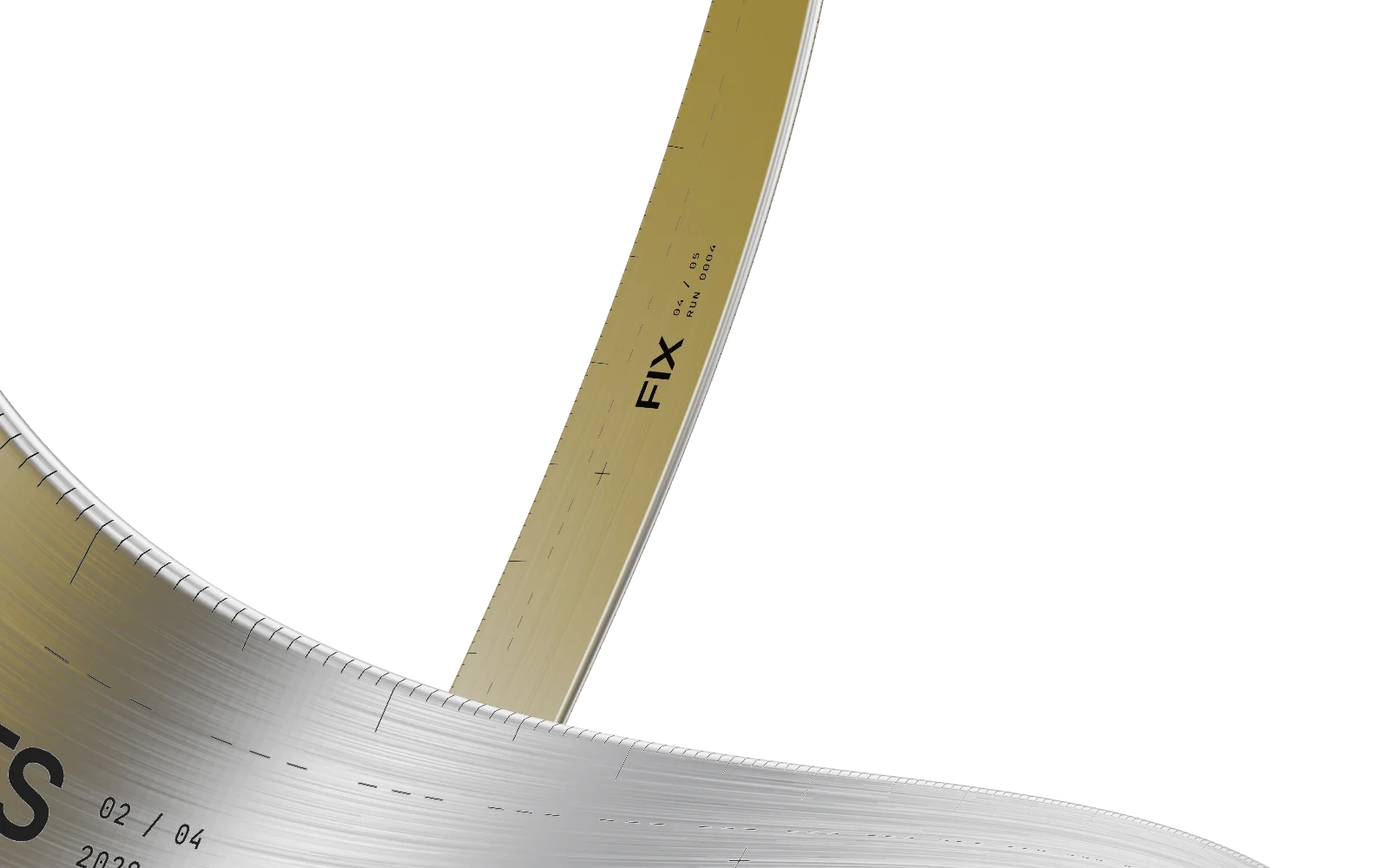
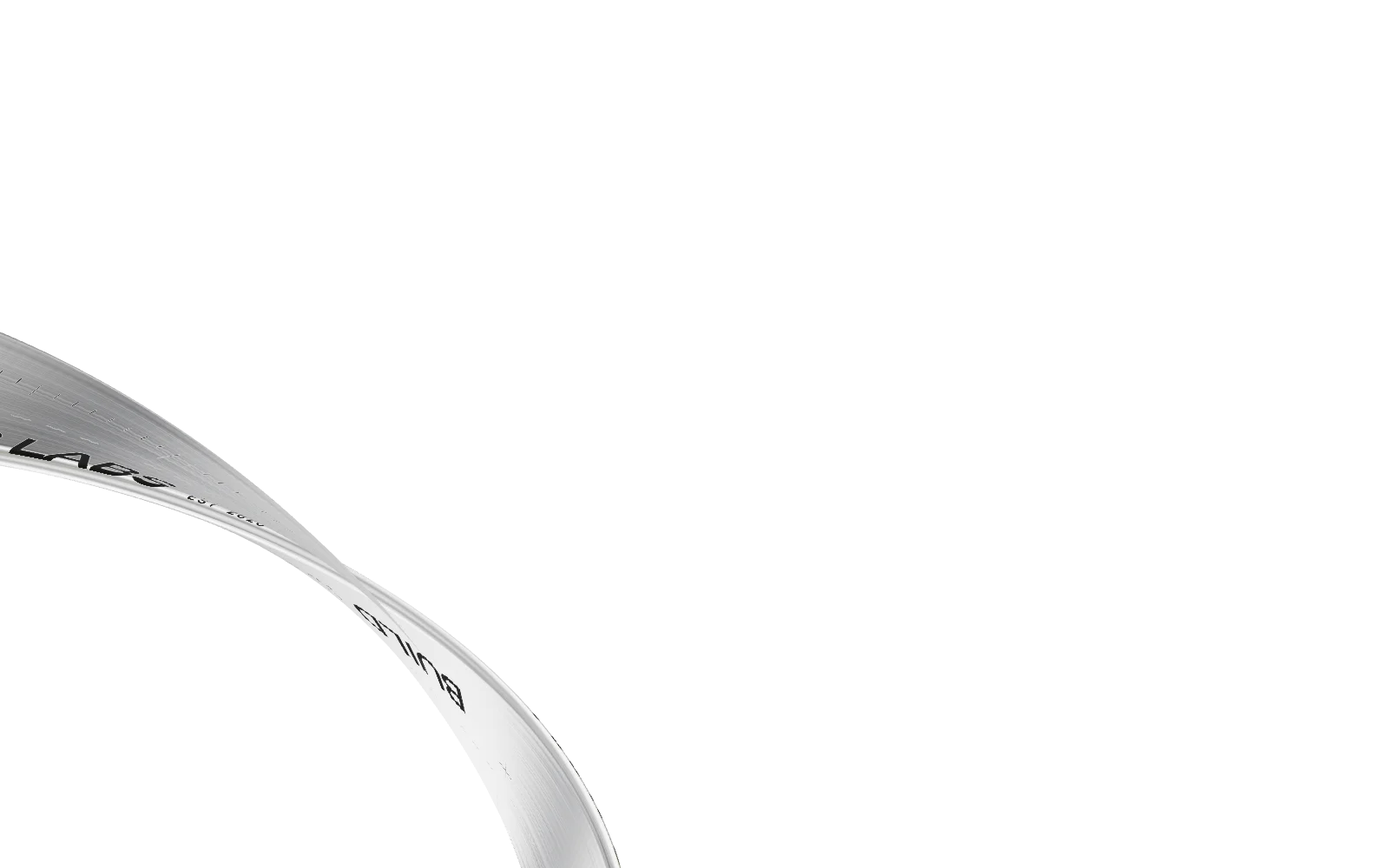
redesign: second critique round, final poses, design review
Infiniview copy enters only after the camera settles on the rings. The
arch face of the band reads upright. The hero band lives in the empty
lower left so the name stays whole, with its own pose on tall screens.
Each page head has its own pose. Work and writing lists are opaque
sheets: the band crosses the section title and is then occluded as the
list rises. Under reduced motion the band shows only where nothing
scrolls across it. Vercel analytics scripts load only on Vercel.
Adds design-review.md and updates the skills and content evidence.

Changed region(s): [[0.0, 0.0, 0.9375, 1.0]]

diff --git a/src/components/scene/poses.ts b/src/components/scene/poses.ts
@@ -42,44 +42,51 @@ const base = {
 };
 const GONE = { near: 0, far: 0.02 };
 
-// Hero: one strand rises through the gap between the two lines of the name.
-const HERO: Pose = { ...base, cam: [2.5, 0.8, 7.5], look: [1.6, 0.2, 0], rot: [0.5, -0.55, 0.32], roll: 1.8, shift: [-0.05, 0.05], pshift: [0.05, -0.2], portraitBack: 5 };
+// Hero: the name stays whole. The band curls up out of the empty lower left and only touches the first A.
+const HERO: Pose = { ...base, cam: [6.9, 0.2, 6.6], look: [6.3, 0.2, 0.2], rot: [0, 0, 0], roll: 0.9, shift: [-0.3, -0.19], pshift: [0.05, -0.2], portraitBack: 4 };
 // Statement: the loop stands off to the upper right, the words own the lower left.
 const SHELF: Pose = { ...base, cam: [0, 0, 24], look: [0, 0, 0], rot: [1.0, 0.3, 0.5], fov: 28, flow: 0.016, shift: [0.3, 0.22], pshift: [0.06, 0.3], portraitBack: 16 };
 const SHELF_B: Pose = { ...SHELF, rot: [1.1, 0.75, 0.6] };
 // Infiniview: the top of one lobe, side on, running through three probe rings.
-const GATES_IN: Pose = { ...base, cam: [7.3, 3.3, 7.6], look: [4.6, 2.5, 1.6], rot: [0, 0, 0], fov: 30, flow: 0.05, gates: 0.2, env: 0.95, shift: [0.22, 0.18], pshift: [0.02, 0.36], portraitBack: 9 };
-const GATES: Pose = { ...base, cam: [6.6, 3.0, 6.4], look: [4.6, 2.5, 1.6], rot: [0, 0, 0], fov: 30, flow: 0.08, gates: 1, env: 0.95, shift: [0.22, 0.18], pshift: [0.02, 0.36], portraitBack: 9 };
-const GATES_OUT: Pose = { ...GATES, cam: [5.9, 2.8, 6.1] };
+const GATES_IN: Pose = { ...base, cam: [6.9, 3.1, 6.8], look: [4.6, 2.5, 1.6], rot: [0, 0, 0], roll: 1.8, fov: 30, flow: 0.05, gates: 0.2, env: 0.95, shift: [0.22, 0.15], pshift: [0.02, 0.36], portraitBack: 9 };
+const GATES: Pose = { ...base, cam: [6.6, 3.0, 6.4], look: [4.6, 2.5, 1.6], rot: [0, 0, 0], roll: 1.8, fov: 30, flow: 0.08, gates: 1, env: 0.95, shift: [0.22, 0.15], pshift: [0.02, 0.36], portraitBack: 9 };
+const GATES_OUT: Pose = { ...GATES, cam: [6.2, 2.9, 6.2] };
 // Rules: the whole loop as a sculpture, upper right, turning one notch per rule.
-const EDGE: Pose = { ...base, cam: [0, 0, 27], look: [0, 0, 0], rot: [0.5, 0.3, 0.1], fov: 30, flow: 0.014, env: 1, shift: [0.28, 0.24], pshift: [0, 0.27], portraitBack: 16 };
+const EDGE: Pose = { ...base, cam: [0, 0, 27], look: [0, 0, 0], rot: [0.5, 0.3, 0.1], fov: 30, flow: 0.014, env: 1, shift: [0.25, 0.24], pshift: [0, 0.27], portraitBack: 16 };
 // Ventures: an arch of band overhead while the years run underneath.
-const ARCH_A: Pose = { ...base, cam: [3.6, 2.8, 6.2], look: [3.6, 2.5, 0], rot: [0, 0, 0], fov: 30, flow: 0.03, shift: [0, 0.31], portraitBack: 2 };
-const ARCH_B: Pose = { ...base, cam: [4.6, 3.0, 5.6], look: [4.6, 2.6, 0], rot: [0, 0, 0], fov: 30, flow: 0.03, shift: [0, 0.33], portraitBack: 2 };
-const ARCH_C: Pose = { ...base, cam: [5.4, 3.0, 6.0], look: [5.2, 2.4, 0], rot: [0, 0, 0.1], fov: 30, flow: 0.03, shift: [0, 0.31], portraitBack: 2 };
+const ARCH_A: Pose = { ...base, cam: [3.6, 2.8, 6.2], look: [3.6, 2.5, 0], rot: [0, 0, 0], fov: 30, flow: 0.03, shift: [0, 0.31], pshift: [0, 0.43], portraitBack: 4 };
+const ARCH_B: Pose = { ...base, cam: [4.6, 3.0, 5.6], look: [4.6, 2.6, 0], rot: [0, 0, 0], fov: 30, flow: 0.03, shift: [0, 0.33], pshift: [0, 0.43], portraitBack: 4 };
+const ARCH_C: Pose = { ...base, cam: [5.4, 3.0, 6.0], look: [5.2, 2.4, 0], rot: [0, 0, 0.1], fov: 30, flow: 0.03, shift: [0, 0.31], pshift: [0, 0.43], portraitBack: 4 };
 // Work and writing: the arch crosses the section title, then the list sheet rises over it.
-const TITLE: Pose = { ...base, cam: [4.4, 2.9, 7.4], look: [4.4, 2.6, 0], rot: [0, 0, 0], fov: 30, flow: 0.02, shift: [0.16, 0.04], pshift: [0.1, 0.06], portraitBack: 3 };
+const TITLE: Pose = { ...base, cam: [4.4, 2.9, 7.4], look: [4.4, 2.6, 0], rot: [0, 0, 0], fov: 30, flow: 0.02, shift: [0.16, 0.2], pshift: [0.1, 0.43], portraitBack: 4 };
 // Close: pull all the way out. The thing you were riding is one closed figure eight.
 const WHOLE_IN: Pose = { ...base, cam: [0, 0.2, 13], look: [0, -0.4, 0], rot: [0.7, 0.5, 0.15], portraitBack: 10 };
 const WHOLE: Pose = { ...base, cam: [0, 0, 29], look: [0, 0, 0], rot: [0.12, 0, 0], shift: [0, 0.09], pshift: [0, 0.12], portraitBack: 22 };
 // Inner pages: one pose each, so no two heads look alike.
-const HEAD_WORK: Pose = { ...base, cam: [0, 3.0, 7.5], look: [0, 1.6, 0], rot: [0.2, 0, 0], fov: 30, flow: 0.014, shift: [0.1, 0.34], pshift: [0.1, 0.3], portraitBack: 3 };
-const HEAD_BLOG: Pose = { ...base, cam: [4.6, 3.0, 6.4], look: [4.6, 2.6, 0], rot: [0, 0, 0], fov: 30, flow: 0.014, shift: [0.05, 0.52], pshift: [0.1, 0.44], portraitBack: 3 };
+const HEAD_WORK: Pose = { ...base, cam: [0, 3.0, 7.5], look: [0, 1.6, 0], rot: [0.2, 0, 0], fov: 30, flow: 0.014, shift: [0.1, 0.34], pshift: [0.14, 0.42], portraitBack: 9 };
+const HEAD_BLOG: Pose = { ...base, cam: [6.9, 0.2, 7.2], look: [6.3, 0.2, 0.2], rot: [0, 0, 0], flow: 0.014, shift: [0.36, 0], pshift: [0.3, 0.3], portraitBack: 5 };
 const HEAD_LOST: Pose = { ...base, cam: [0, 0, 19], look: [0, 0, 0], rot: [1.0, 0.3, 0.5], fov: 28, flow: 0.014, shift: [0.24, 0.2], pshift: [0.06, 0.26], portraitBack: 14 };
 const up = (p: Pose): Pose => ({ ...p, shift: [p.shift[0], p.shift[1] + 0.18], pshift: [p.pshift[0], p.pshift[1] + 0.18] });
 
 export const CHAPTERS: Record<string, Pose[]> = {
   hero: [HERO, HERO, SHELF, SHELF, SHELF],
-  statement: [SHELF, SHELF, SHELF_B, SHELF_B, GATES_IN],
-  now: [GATES_IN, GATES, GATES, GATES_OUT, GATES_OUT],
+  statement: [SHELF, SHELF, SHELF_B, SHELF_B, SHELF_B],
+  now: [GATES_IN, GATES, GATES, GATES, GATES_OUT, GATES_OUT],
   rules: [EDGE, { ...EDGE, rot: [0.6, 1.0, 0.2] }, { ...EDGE, rot: [0.4, 1.75, 0.3] }, { ...EDGE, rot: [0.6, 2.5, 0.2] }, { ...EDGE, rot: [0.6, 2.9, 0.2] }],
   timeline: [ARCH_A, ARCH_B, ARCH_C, ARCH_C],
-  work: [TITLE, { ...TITLE, ...GONE }, { ...TITLE, ...GONE }, { ...TITLE, ...GONE }],
-  writing: [TITLE, { ...TITLE, ...GONE }, { ...WHOLE_IN, ...GONE }, WHOLE_IN],
+  work: [TITLE, TITLE, { ...TITLE, ...GONE }, { ...TITLE, ...GONE }, { ...TITLE, ...GONE }, { ...TITLE, ...GONE }],
+  writing: [TITLE, TITLE, { ...TITLE, ...GONE }, { ...WHOLE_IN, ...GONE }, WHOLE_IN],
   contact: [WHOLE_IN, WHOLE, WHOLE],
   'head-work': [HEAD_WORK, up(HEAD_WORK)],
   'head-blog': [HEAD_BLOG, up(HEAD_BLOG)],
   'head-lost': [HEAD_LOST, HEAD_LOST],
   sheet: [up(HEAD_WORK)],
   none: [up(HEAD_WORK)],
+};
+
+// Tall screens get their own framing where the wide one would hide the name.
+const HERO_TALL: Pose = { ...base, cam: [2.5, 0.8, 7.5], look: [1.6, 0.2, 0], rot: [0.5, -0.55, 0.32], pshift: [0.05, -0.2], portraitBack: 5 };
+
+export const CHAPTERS_TALL: Record<string, Pose[]> = {
+  hero: [HERO_TALL, HERO_TALL, SHELF, SHELF, SHELF],
 };

diff --git a/src/components/scene/engine.ts b/src/components/scene/engine.ts
@@ -26,7 +26,7 @@ import {
   WebGLRenderer,
   WebGLRenderTarget,
 } from 'three';
-import { CHAPTERS, type Pose } from './poses';
+import { CHAPTERS, CHAPTERS_TALL, type Pose } from './poses';
 import { story } from '@/lib/story';
 
 /**
@@ -173,8 +173,8 @@ function buildEngraving(width: number, height: number, fonts: { display: string;
   // Face rows. v: top face 0..0.4336, bottom face 0.5..0.9336 (see profile()).
   const faceH = height * 0.4336;
   const rows = [
-    { y0: 0, flip: false },
-    // No flip: the profile already runs the bottom face right to left, so seen from below it reads true.
+    { y0: 0, flip: true },
+    // The profile already runs the bottom face right to left, so seen from below it reads true as drawn.
     { y0: height * 0.5, flip: false },
   ];
   const ink = '#111214';
@@ -188,8 +188,9 @@ function buildEngraving(width: number, height: number, fonts: { display: string;
       ctx.save();
       ctx.translate(0, row.y0);
       if (row.flip) {
-        ctx.translate(0, faceH);
-        ctx.scale(1, -1);
+        // Turn this face half a turn, so its words read upright where the band arches over the page.
+        ctx.translate(width, faceH);
+        ctx.rotate(Math.PI);
       }
       ctx.fillStyle = isRough ? 'rgb(215,215,215)' : ink;
       ctx.strokeStyle = ctx.fillStyle;
@@ -450,12 +451,15 @@ export class Engine {
       const dbg = (window as unknown as { __pose?: Partial<Pose> }).__pose;
       if (dbg) return { ...CHAPTERS.hero[0], ...dbg };
     }
-    const list = CHAPTERS[story.chapter] ?? CHAPTERS.hero;
+    const tall = this.camera.aspect < 0.8;
+    const list = (tall && CHAPTERS_TALL[story.chapter]) || CHAPTERS[story.chapter] || CHAPTERS.hero;
     // Reduced motion: one resting pose per chapter, no travel between them.
     if (story.reduced) {
       const rest = list[story.chapter === 'hero' || story.chapter.startsWith('head') ? 0 : Math.min(1, list.length - 1)];
-      // long static lists scroll over the canvas under reduced motion, so the band steps out for them
-      return story.chapter === 'rules' || story.chapter === 'timeline' ? { ...rest, near: 0, far: 0.02 } : rest;
+      // Under reduced motion the chapters are plain scrolling blocks, so the band only stands in the
+      // hero, the close and the page heads, where nothing scrolls across it.
+      const still = story.chapter === 'hero' || story.chapter === 'contact' || story.chapter.startsWith('head');
+      return still ? rest : { ...rest, near: 0, far: 0.02, gates: 0 };
     }
     const f = clamp(story.local) * (list.length - 1);
     const i = Math.min(list.length - 2, Math.floor(f));
@@ -470,6 +474,7 @@ export class Engine {
     this.target = this.poseAt();
     // Phones show the ventures as a plain column with nowhere for the band to stand clear, so it steps out.
     if (this.camera.aspect < 0.8 && story.chapter === 'timeline') this.target = { ...this.target, near: 0, far: 0.02 };
+
     if (!this.cur) this.cur = clonePose(this.target);
     // Critically damped follow: always from the presentation value, so scroll and pointer can interrupt.
     const k = still ? 1 : 1 - Math.exp(-dt * 5.2);

diff --git a/src/components/home/Statement.tsx b/src/components/home/Statement.tsx
@@ -2,7 +2,7 @@
 
 import { useRef } from 'react';
 import { useFrame } from '@/lib/useFrame';
-import { clamp, span, story } from '@/lib/story';
+import { clamp, smooth, span, story } from '@/lib/story';
 import { interests, statement } from '@/lib/content';
 
 const words = statement.split(' ');
@@ -10,6 +10,7 @@ const words = statement.split(' ');
 export default function Statement() {
   const root = useRef<HTMLElement>(null);
   const lit = useRef(-1);
+  const pin = useRef<HTMLDivElement>(null);
 
   // The paragraph is held in place while its words light up in reading order.
   useFrame(() => {
@@ -19,6 +20,8 @@ export default function Statement() {
     const p = clamp(-r.top / Math.max(1, r.height - story.vh));
     // far below the fold the paragraph stays fully lit; it only dims once it is about to arrive
     const n = r.top > story.vh * 1.15 ? words.length : Math.round(span(p, 0.06, 0.7) * words.length);
+    // the paragraph is gone before the camera leaves for the next chapter
+    if (pin.current) pin.current.style.opacity = (1 - smooth(span(p, 0.86, 0.98))).toFixed(3);
     if (n === lit.current) return;
     lit.current = n;
     el.querySelectorAll<HTMLSpanElement>('[data-w]').forEach((s, i) => {
@@ -29,7 +32,7 @@ export default function Statement() {
 
   return (
     <section ref={root} className="statement g-yellow" data-chapter="statement" data-ground="#ffd60a" aria-label="About">
-      <div className="pin front statement-pin">
+      <div className="pin front statement-pin" ref={pin}>
         <p className="sr-only">{statement}</p>
         <p className="statement-text" aria-hidden="true">
           {words.map((w, i) => (

diff --git a/src/components/home/Now.tsx b/src/components/home/Now.tsx
@@ -21,9 +21,11 @@ export default function Now() {
     // The copy leaves before the next chapter's first rule arrives, so the two never share the screen.
     if (root.current && grid.current && !story.reduced) {
       const r = root.current.getBoundingClientRect();
-      const out = smooth(span(-r.top / Math.max(1, r.height - story.vh), 0.8, 0.96));
-      grid.current.style.opacity = (1 - out).toFixed(3);
-      grid.current.style.transform = `translate3d(0, ${(-out * 40).toFixed(1)}px, 0)`;
+      // in only once the chapter is pinned and the camera has settled on the rings
+      const enter = smooth(span(r.top, story.vh * 0.22, 0));
+      const out = smooth(span(-r.top / Math.max(1, r.height - story.vh), 0.78, 0.94));
+      grid.current.style.opacity = (enter * (1 - out)).toFixed(3);
+      grid.current.style.transform = `translate3d(0, ${((1 - enter) * 32 - out * 40).toFixed(1)}px, 0)`;
     }
     const show = story.chapter === 'now';
     for (let i = 0; i < el.children.length; i++) {

diff --git a/src/app/globals.css b/src/app/globals.css
@@ -634,7 +634,7 @@ html[data-loaded='true'] .hero-hud {
    Home: now (Infiniview)
    ------------------------------------------------------------------ */
 .now {
-  height: 240svh;
+  height: 210svh;
 }
 .now-pin {
   display: flex;
@@ -720,7 +720,7 @@ html[data-loaded='true'] .hero-hud {
    ------------------------------------------------------------------ */
 .rules {
   /* the first rule slides in under the Infiniview copy as that fades */
-  margin-top: -40svh;
+  margin-top: -50svh;
 }
 .rules-head {
   position: absolute;
@@ -1671,6 +1671,7 @@ html:not([data-motion='full']) {
     position: static;
     height: auto;
     padding-block: 96px;
+    opacity: 1 !important;
   }
   .now-grid {
     opacity: 1 !important;

diff --git a/src/app/layout.tsx b/src/app/layout.tsx
@@ -41,8 +41,9 @@ export default function RootLayout({ children }: { children: React.ReactNode }) 
       </head>
       <body>
         <Shell>{children}</Shell>
-        <Analytics />
-        <SpeedInsights />
+        {/* Vercel's scripts only exist on Vercel; elsewhere they would 404. */}
+        {process.env.VERCEL ? <Analytics /> : null}
+        {process.env.VERCEL ? <SpeedInsights /> : null}
       </body>
     </html>
   );

diff --git a/docs/redesign-20261114/design-review.md b/docs/redesign-20261114/design-review.md
@@ -1,0 +1,75 @@
+# Design review (Nov 14 2026)
+
+## The concept in one paragraph
+One closed band of brushed, engraved steel, rendered live in three.js. The page is a camera ride around it: it curls up beside the name, stands off while I introduce myself, runs through three probe rings for Infiniview, turns as a small sculpture beside each rule, arches over the years, crosses the work title, and at the end the camera pulls out and the thing you were riding is one figure eight above the email address. Three flat colours carry everything else: signal yellow, black and paper. Type is Onest for display and reading, JetBrains Mono for labels.
+
+## Self-review rounds
+Each round: screenshot at 1440, 1024 and 390, compare against the Igloo and Lando captures in `references/`, write down what is worse than them, fix it.
+
+| Round | What was wrong | What changed |
+| --- | --- | --- |
+| 1 | The first hero put the whole loop on screen with far parts fading to see-through. It read as glass tape, and it spent the reveal on the first screen. Engraving was as loud as the name. Underside of the band was a flat olive on yellow. | Opaque steel only. Camera moved in so the whole loop is saved for the close. Engraving cut to a third of the face height with ruler ticks and counts. Added a floor strip light so undersides carry a highlight. |
+| 2 | Reading text sat under the band inside every pinned chapter, because a sticky box makes its own stacking context. Statement, rules and Infiniview copy were all crossed by steel. | Each pinned chapter is now two sticky layers: display type under the canvas, reading text over it. Added a lens shift to the camera so the loop can be composed into a corner without changing the shot. |
+| 3 | The loader was a hairline and 12px text on an empty yellow field. Page heads hid their own titles behind the band. The phone hero showed "JAIN" and no "ARAV". | Loader rebuilt as a count set in the name's own cut and position that leaves upward as the name rises. Separate poses per page head. Portrait poses for the hero. |
+| 4 (after independent critique, below) | Band over text in about half the frames; chapter grounds blended through muddy olive and beige; engraving mirrored on one face; phone timeline unreadable. | Every chapter paints its own ground, so colour changes as a hard edge that scrolls with the page. Text always lower left, loop always upper right. Bottom face of the band no longer flipped. Band steps out of the phone timeline. |
+| 5 (after the critic's second pass) | Band still crossed the Infiniview copy on entry; engraving read upside down on the arch; phone /work head covered its title; hero strap split the name; lists after the timeline had no 3D. | Infiniview copy now enters only after the camera settles; the arch face is drawn half a turn round so it reads upright where it is seen most; the hero band lives in the empty lower left and touches only the first A; list sections are opaque sheets, so the band crosses the section title and is then covered for real as the list rises. |
+
+## Independent critique
+A fresh subagent with no access to my reasoning reviewed the screenshots, the reference sheets and the live site twice. It was told what Arav asked for and what he rejected, nothing about how the site was made.
+
+First pass, scores out of 10: concept 7, 3D craft 6, scroll choreography 5, typography 6.5, colour 6, copy 7.5, mobile 4.5. Its verdict: "the first version with an actual idea", but "the band crosses body copy, headings and links in roughly half the frames", the colour cross-fades "pass through muddy olive and cream beige, which are literally his banned colours", the ribbon text "reads backwards in the hero", and the second half of home "reads as a clean but ordinary editorial template". It listed 17 problems.
+
+Second pass, after round 4: concept 7.5, 3D craft 6.5, choreography 6, typography 7, colour 8, copy 7.5, mobile 5.5. Fixed outright: colour transitions, contact. Still open at that point, with what I did next:
+
+| Its finding (second pass) | Status now |
+| --- | --- |
+| Band on the Infiniview heading and paragraph on entry | Fixed in round 5. Checked at 1440 and 390 |
+| Band swells over the statement at the yellow to black edge | Fixed: the paragraph fades before the camera leaves |
+| "DEV TOOLS", "INFINIFLOP LABS", "AGENTS" read reversed | Fixed for the arch face. The band still turns, so words on it read sideways or inverted in some frames. That is what a band does |
+| Hero strap splits the name into "AR/AV"; lede sits on steel | Fixed: name is whole, lede is on yellow |
+| /work head at 390 covers "WORK" | Fixed with a portrait pose |
+| /blog head: band over the lede and the nav mark | Fixed with a new pose; the band now clips the foot of the G only |
+| Reduced motion: band over text in intro and Infiniview | Fixed: under reduced motion the band shows only in the hero, the close and the page heads |
+| Selected work and Writing are plain lists with no band | Partly. The arch now crosses both section titles and the list sheet occludes it. The rows themselves are still plain, by choice: no screenshots, no decoration between a reader and the list |
+| Phone timeline has no 3D | Open. I tried an arch held at the top of the screen and it collided with the cards again, so the phone timeline stays type only |
+| Rules are four similar layouts with a small knot | Partly. One type size, no orphan, knot moved in from the edge. The layout repeats on purpose so the sentence is the only thing that changes |
+| Blog index shows search and chips for one post | Open. The controls are how the blog works today and they stay; they are now one compact bar |
+| Home Writing headline is title case | Open on purpose: it is the post's own title, and post content is unchanged |
+| Probe rings read as decoration; one label visible | Partly. Three rings, labelled Review, Probe, Stress-test (Infiniflop's own verbs). Two labels are on screen at the resting frame at 1440, the third sits above the top edge |
+| Console 404s | Fixed. They were Vercel's analytics scripts, which only exist on Vercel; they now load only there |
+
+I did not run a third critic pass. Round 5 was checked by me against fresh captures, so treat its "fixed" marks as mine, not the critic's.
+
+## Honest comparison with Igloo and Lando
+- Where it holds up: one idea carried from first frame to last; a believable material with no glow, blur or gradient; colour with nerve; a hero that is the person's name and nothing else; copy that is his own sentences with sources.
+- Where it is behind: both references have bespoke 3D assets, sound and far more scenes. This has one procedural object. Lando has photography of the man; this has none, by choice. Igloo's camera work is continuous cinema; here the camera eases between about twenty poses and the chapter handoffs are the weakest frames (the half second where one chapter's copy has left and the next has not arrived).
+- Motion was judged from frame sequences and two recorded scroll videos, not from sitting in front of it at 60 fps on real hardware. That is the main thing I could not verify.
+
+## taste-skill gate
+`GATE: OPEN 94 (rounds used up)`. Three rounds: 100, 95, 94 FAILs. Logs: `~/.t3/portfolio-redesign-20261114/gate/gate-round{1,2,3}.txt`. No waivers were written: the gate allows five and the open findings are one structural disagreement, not five exceptions.
+
+What the gate caught that was real, all fixed: content hidden when scripts are off (`hidden-content`), no fallback when shaders fail (`gl-fallback`), a focus ring removed by a stray utility from the blog editor's stylesheet being scanned (`focus-ring`), focus landing on an off-screen venture (`focus-visible`), the fixed nav covering content on phones (`nav-covers`), labels cut by the viewport edge.
+
+What stays open and why: the gate checks a company landing page built from its own kit, with one section per screen and nothing that moves because the page scrolled. `pinned` (7), `section-air` (8), `section-height`, `screen-height`, `one-section`, `empty-area`, `no-visual`, `sparse`, `container-edges`, `hero-enter`, `moment-none`, `motion-layer` and `shader-lint` all follow from this site being a scroll-choreographed 3D page with a fixed canvas, which is the brief. `cta` wants a button in the hero; this hero is a name. `copy-fact` wants a number in the h1. `heading-scale`, `stagger`, `row-lines`, `bleed-one-side`, `edge-left`, `split-pair` are its grid rules against the mixed display sizes and the horizontal run.
+
+## Quality checks (production build, `next start`)
+- `pnpm lint`: clean. `tsc --noEmit`: clean. `pnpm build`: passes, 10 static pages.
+- Lighthouse (local, simulated throttling). Home mobile: performance 100, accessibility 100, best practices 100, SEO 100; FCP 0.8 s, LCP 0.8 s, TBT 20 ms, CLS 0. Home desktop: 100 / 100 / 100 / 100; LCP 0.2 s. Post page mobile: 100 / 100 / 100 / 100. Reports: `~/.t3/portfolio-redesign-20261114/lighthouse/`.
+- First-load JS, gzip: `/` 183.5 kB, `/work` 179.0 kB, `/blog` 180.2 kB, post 179.7 kB, 404 179.0 kB. CSS 8.8 kB. The live site at 9a487fb serves 233.4 kB on `/`.
+- Lazy JS: three.js scene 134.6 kB gzip and Lenis 5.3 kB, both after first paint. Blog posts never download the scene.
+- No horizontal overflow at 390, 768, 1024 or 1440 on any route.
+- Landmarks: one `header`, `nav`, `main`, `footer`, one `h1` per page, headings in order. Skip link first in tab order. Every interactive element has a visible 2px focus ring. Canvas has `role="img"` and a label.
+- Reduced motion: no smooth scroll, no loader, no pins; every chapter is a readable block; the band is a still in the hero, close and page heads.
+- No scripts: same readable layout plus a still image of the loop.
+- No WebGL or a shader failure: the still image replaces the canvas.
+- Em and en dashes: none in `src/`, `public/`, these docs, or the served HTML of `/`, `/work`, `/blog` and the 404. The post page contains only the 11 that are in the post itself.
+
+## Known gaps
+- Tested in headless Chrome for Testing on this Mac only. Not checked in Safari, Firefox, or on a physical phone; `svh`, sticky pins and WebGL on iOS are the things to look at first.
+- The scene re-renders its small environment map while the floor colour eases between chapters. Cheap on this machine, unmeasured on a low-end phone.
+- Chapter handoffs between pinned sections (Infiniview to rules especially) pass through a frame with little on it.
+- Phone timeline, work and writing are type only.
+- The engraved words on the band (`BUILD PROBE BREAK FIX AGAIN`, `LOOP 01`, `RUN 0001`, `OPEN SOURCE`) are decoration, not claims. Say the word and they change.
+- "OpenAI dot and Grok Bot" in the agent-bridge line is quoted from the repo's README. The critic read it as a typo. Worth a look from Arav.
+- No Open Graph image yet. The card falls back to text.
+- Post dates now render in UTC ("Apr 18, 2026", matching the front matter). The live site shows Apr 17 in US time zones.

diff --git a/docs/redesign-20261114/skills-evidence.md b/docs/redesign-20261114/skills-evidence.md
@@ -14,15 +14,17 @@ Each entry: path, a short quote that proves it was read, and where it changed a 
   - `scripts/start.mjs deal --page software` dealt palettes blue-black-cornflower, green-black-bone, stone-blueprint. All three repeat a direction Arav already rejected (blue accent on Nov 9, dark green, stone/beige), so the palette went through the skill's own "client's colours" path (`start.mjs brand --bg --ink --accent`) instead.
   - Type: first pairing dealt was **Onest + JetBrains Mono**. Taken as dealt.
   - `scripts/moments.mjs pick` dealt `marquee-row` and `liquid-type`. Not used: the page's moments are the scroll-driven 3D loop and the word reveal, which Arav asked for directly.
-- Shaped: one accent, one radius scale (sharp), one button style, real facts only ("Nothing is invented"), no captions under visuals, "one object never carries the page" (the loop leads the hero, the Infiniview chapter and the close; the rest is type), copy rules ("a noun in every heading, buttons as a verb and an object"), 44px tap targets, skip link, focus rings, no violet.
+- Shaped: one accent, one radius scale (sharp), one button style, real facts only ("Nothing is invented"), no captions under visuals, copy rules ("a noun in every heading, buttons as a verb and an object"), 44px tap targets, skip link, focus rings, no violet. Its gate also found four real defects that were fixed (content hidden with scripts off, no shader-failure fallback, a lost focus ring, an off-screen focus target).
+- Collision: "one object never carries the page". Here one object does, on purpose; that is the Igloo lesson. The work and writing lists are the exception and are type only.
 - Collisions, decided for Arav's brief: "nothing moves because the page scrolled except a dealt moment" and "parallax on text" in its Never list. This site is scroll choreographed on purpose. Body copy is never parallaxed; only the display name, decorative layers and the 3D scene move with scroll.
-- Gate: see `design-review.md` for the `GATE:` line, waivers and open FAILs.
+- Gate: armed with `gate.mjs --start http://localhost:3112/ --new --kind software`, run three times against the production build. Result `GATE: OPEN 94 (rounds used up)`. See `design-review.md` for what it caught and what stays open.
 
 ### ui-ux-pro-max
 - Path: `~/.agents/skills/ui-ux-pro-max/SKILL.md` (loaded with the Skill tool), search tool `scripts/search.py`
 - Quote: "Keep the narrative understandable without scroll-driven effects. Use progress indicator. Mobile: simplify animations. Keep DOM reading order complete; disable parallax and scroll-scrub under reduced motion."
 - Ran: `"personal portfolio developer founder immersive 3D" --design-system --variance 8 --motion 9 --density 3`, `"scroll pin scrub parallax" --domain gsap`, `"reduced motion webgl fallback" --stack threejs`.
-- Shaped: the page pattern (Scroll-Triggered Storytelling: hook, chapters, climax), the chapter progress index in the HUD, "Don't pin more than 1-2 sections per page" (two pinned sections: rules and timeline), "never parallax body copy", reactive `matchMedia` for reduced motion instead of a one-time read, `role="img"` plus `aria-label` on the canvas, antialias decided at renderer construction.
+- Shaped: the page pattern (Scroll-Triggered Storytelling: hook, chapters, climax), the chapter progress index in the HUD, "never parallax body copy", "render each chapter in its final readable state under reduced motion" (the resting layout is the default and choreography is opt in), reactive `matchMedia` for reduced motion instead of a one-time read, `role="img"` plus `aria-label` on the canvas, antialias decided at renderer construction.
+- Collision, decided for Arav's brief: "Don't pin more than 1-2 sections per page". The home page pins six chapters, because the camera ride needs the copy to hold still while the scene moves. On phones the ventures chapter is unpinned.
 - Not taken: its style match (Brutalism) and font match (Caveat / Quicksand) were off target for this brief and are recorded here rather than applied.
 
 ### landing-page-design

diff --git a/docs/redesign-20261114/content-sources.md b/docs/redesign-20261114/content-sources.md
@@ -28,8 +28,8 @@ Every statement about Arav on the new site comes from a public page read on Nov 
 | Rule: "Messages are data, never permission." | agent-bridge README, bold line of the same words |
 | Rule: "Someone has to read the code." | Blog post, last line: "The clearest lesson is still that someone has to read the code." |
 | Rule: "If your eval is throughput, you're measuring the wrong thing." | Blog post: "If your eval for coding agents is throughput, you're measuring the wrong thing." Shortened by three words |
-| Rule notes (escalate then block; cannot grant approval; three agents, five products; three outputs is not better than one) | Same README sections and post paragraphs, paraphrased closely |
-| Ventures: Master Coders 2020, NeuralBytes 2024, Infiniflop Labs 2026 and their one-line descriptions | aravjain.dev live site; neuralbytes.net for IntergalacticPro |
+| Rule notes (escalate then block; cannot grant approval; three agents, five products) | Same README sections and post paragraphs, paraphrased closely. "Three outputs isn't better than one good output." is the post's own sentence |
+| Ventures: Master Coders 2020, NeuralBytes 2024, Infiniflop Labs 2026 and their one-line descriptions ("Co-founded in 2026. We're building Infiniview.") | aravjain.dev live site; neuralbytes.net for IntergalacticPro; infiniflop.com |
 | cc-switch: providers, "40+ providers", npm name | cc-switch README |
 | agent-bridge: shared inbox between "your OpenAI dot and Grok Bot", self-hosted MCP server, one owner, own OAuth token each | agent-bridge README |
 | ask-around: governance, quorum, veto, receipts, one tool call | ask-around README |
@@ -43,7 +43,7 @@ Every statement about Arav on the new site comes from a public page read on Nov 
 | "Seven merged pull requests to T3 Code between September and November 2026" with titles and numbers | `gh pr list -R pingdotgg/t3code --author aravhawk --state merged` on Nov 14 2026: #2981, #15875, #15876, #15886, #19737, #19791, #33474 |
 | Project years | GitHub `created_at` per repo (lite-stats: Dec 2025; the rest 2026) |
 | "Six things I built this year. All of them are open source" | The six featured repos are public and were all created in 2026 |
-| Interests listed in `content.ts` (agents, dev tools, rockets, GPUs and chains) | The repos named beside each one. This list is in the content file but is not rendered on any page yet |
+| "Into" row under the statement (AI agents, dev tools, rockets, GPUs and chains) | The repos named beside each one, plus the GitHub README line about dev tools, agents and "some blockchain stuff" |
 
 ## Checked and changed since the Nov 9 fact sheet
 - New repo: vampire-hunter (created Nov 13 2026). Added to the work index.

diff --git a/docs/redesign-20261114/PROGRESS.md b/docs/redesign-20261114/PROGRESS.md
@@ -34,3 +34,19 @@
 - taste-skill gate: three rounds, ended `GATE: OPEN 94 (rounds used up)`. Logs in `~/.t3/portfolio-redesign-20261114/gate/`.
 - Blog editor check: `pnpm install --frozen-lockfile` then `pnpm dev` in `blog-editor/` (port 3001). List, edit view and preview all loaded the existing post. No non-GET requests. `git diff 9a487fb -- content/posts` is empty. Editor stopped afterwards.
 - Independent critique (fresh subagent, no access to my reasoning): scored it about 6/10 and listed 17 problems. Round 4 below works through them.
+- Round 4 (commit 2c1bd36): hard-edged grounds, text-safe zones, true-reading engraving, three labelled rings, snapping ventures run, pinned statement with the "into" row, contents rail on posts.
+- Critic second pass: colour 6 to 8, mobile 4.5 to 5.5, overall still "a flaw within ten seconds" (band on the Infiniview copy). Round 5 fixes that and five more of its points.
+- Round 5: Infiniview copy enters after the camera settles, arch face reads upright, hero band moved to the empty lower left, tall-screen hero pose, per-page head poses, list sheets occlude the band, reduced motion shows the band only where it stands clear, Vercel scripts load only on Vercel.
+- Final checks on the production build: lint, typecheck and build clean; Lighthouse 100/100/100/100 (home mobile, home desktop, post mobile); first-load JS 183.5 kB gzip on `/`; no overflow at 390/768/1024/1440; no em or en dashes outside the post body.
+- Screenshots: `~/.t3/portfolio-redesign-20261114/screenshots/`. Videos: `home-scroll-1440.webm`, `home-scroll-390.webm` in the same parent folder.
+
+## Checklist (final)
+- [x] Step 0 preflight
+- [x] Step 1 design skills loaded, evidence written
+- [x] Step 2 reference research (browser), reference-log.md
+- [x] Step 3 content gathered, content-sources.md
+- [x] Step 4 build
+- [x] Quality: lint, typecheck, build, a11y, reduced motion, overflow, Lighthouse, bundle
+- [x] Self-review rounds, independent critique (two passes), design-review.md
+- [x] Blog/editor verification, posts diff empty
+- [x] Server on :3112, screenshots and videos saved
